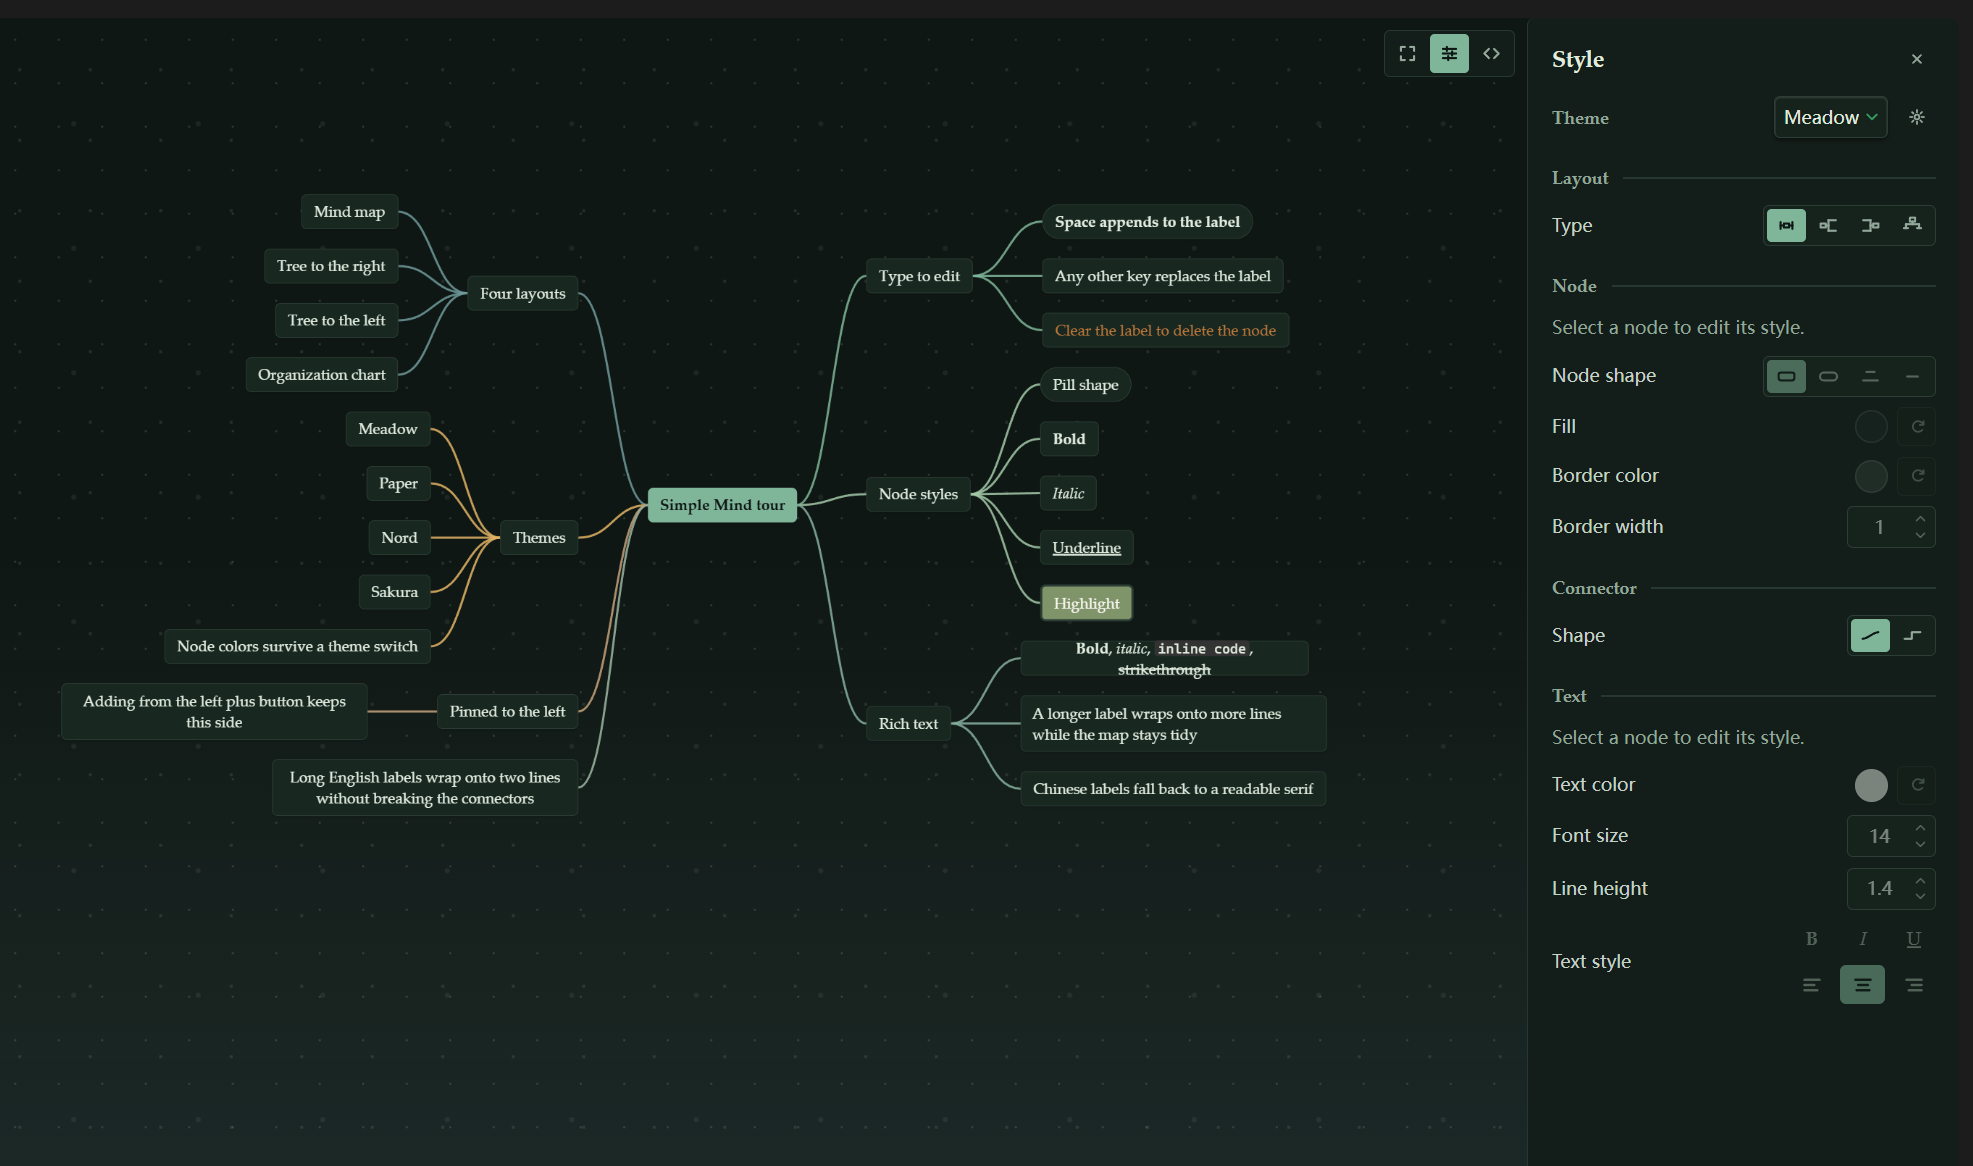
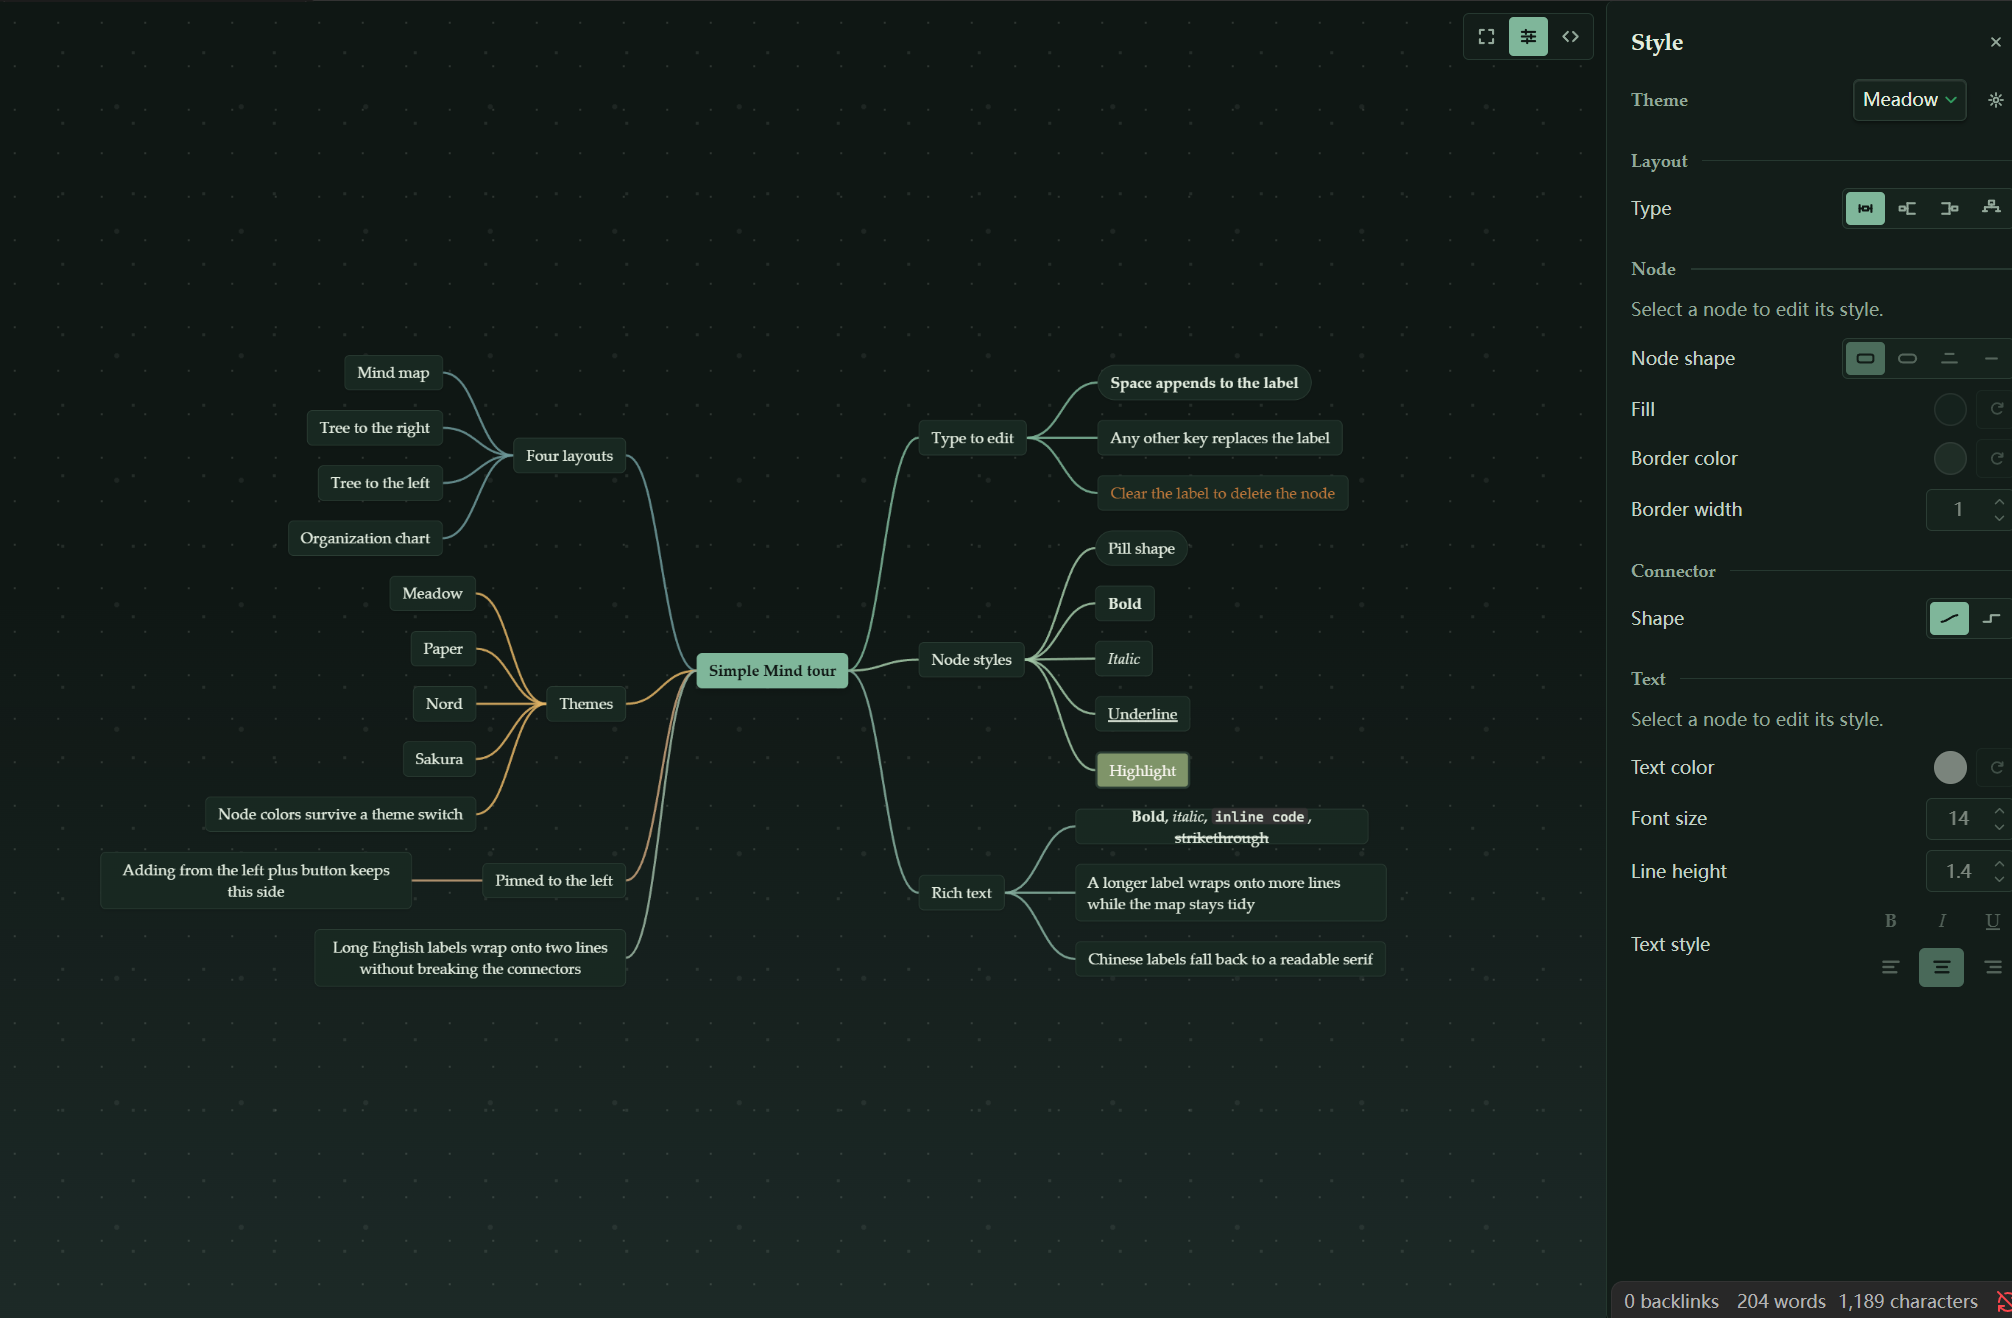
Release 1.0.4 with the new screenshots.

diff --git a/doc/plan-simple-mind.md b/doc/plan-simple-mind.md
@@ -393,7 +393,7 @@ node scripts/benchmark.mjs
 - 1.0.2 creates elements through Obsidian's global DOM helpers, with a jsdom shim for the tests.
 - 1.0.3 lets a selected node be edited by typing (Space appends, a character replaces, clearing the
   label deletes the node) and rewrites the README around features and usage.
-- Unreleased: the map fills the pane edge to edge, without Obsidian's view padding, view header, or
+- 1.0.4 makes the map fill the pane edge to edge, without Obsidian's view padding, view header, or
   the rounded frame.
 - Next: submit the plugin to the Obsidian community list when ready.
 - Test vault: local only and ignored by git; the build writes the plugin into it.

diff --git a/README.md b/README.md
@@ -4,7 +4,7 @@ A Markdown-outline mind map editor for Obsidian.
 
 [github.com/fickit/simple-mind](https://github.com/fickit/simple-mind)
 
-> Status: 1.0.3
+> Status: 1.0.4
 
 Simple Mind turns a plain `.mindmap` file into a polished, interactive map — and keeps it a plain
 Markdown outline underneath. No account, no network calls, no lock-in.

diff --git a/README.zh-CN.md b/README.zh-CN.md
@@ -4,7 +4,7 @@
 
 [github.com/fickit/simple-mind](https://github.com/fickit/simple-mind)
 
-> 状态：1.0.3
+> 状态：1.0.4
 
 Simple Mind 把一个 `.mindmap` 文件变成精致、可交互的导图，底层仍然是一份普通 Markdown 大纲。
 不需要账号、不联网、也没有格式锁定。

diff --git a/CHANGELOG.md b/CHANGELOG.md
@@ -1,6 +1,6 @@
 # Changelog
 
-## Unreleased
+## 1.0.4 — 2026-11-06
 
 - The map fills the view edge to edge: Obsidian's view padding and view header are hidden and the
   rounded frame is gone, so the canvas meets the window frame on every side.
